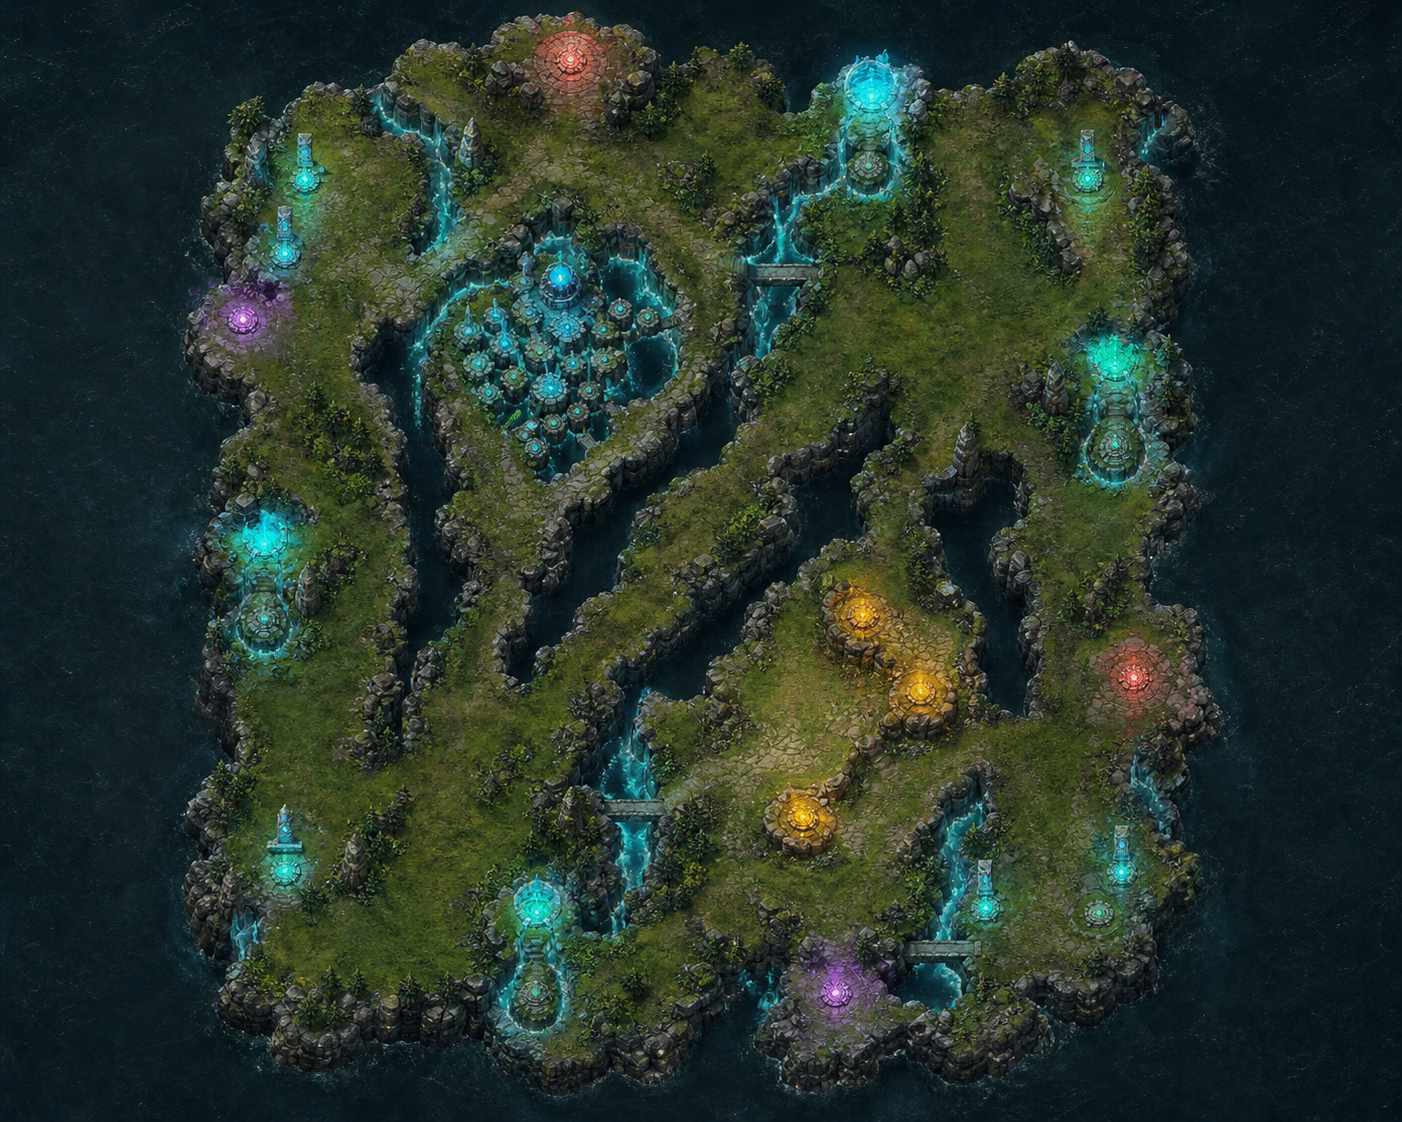
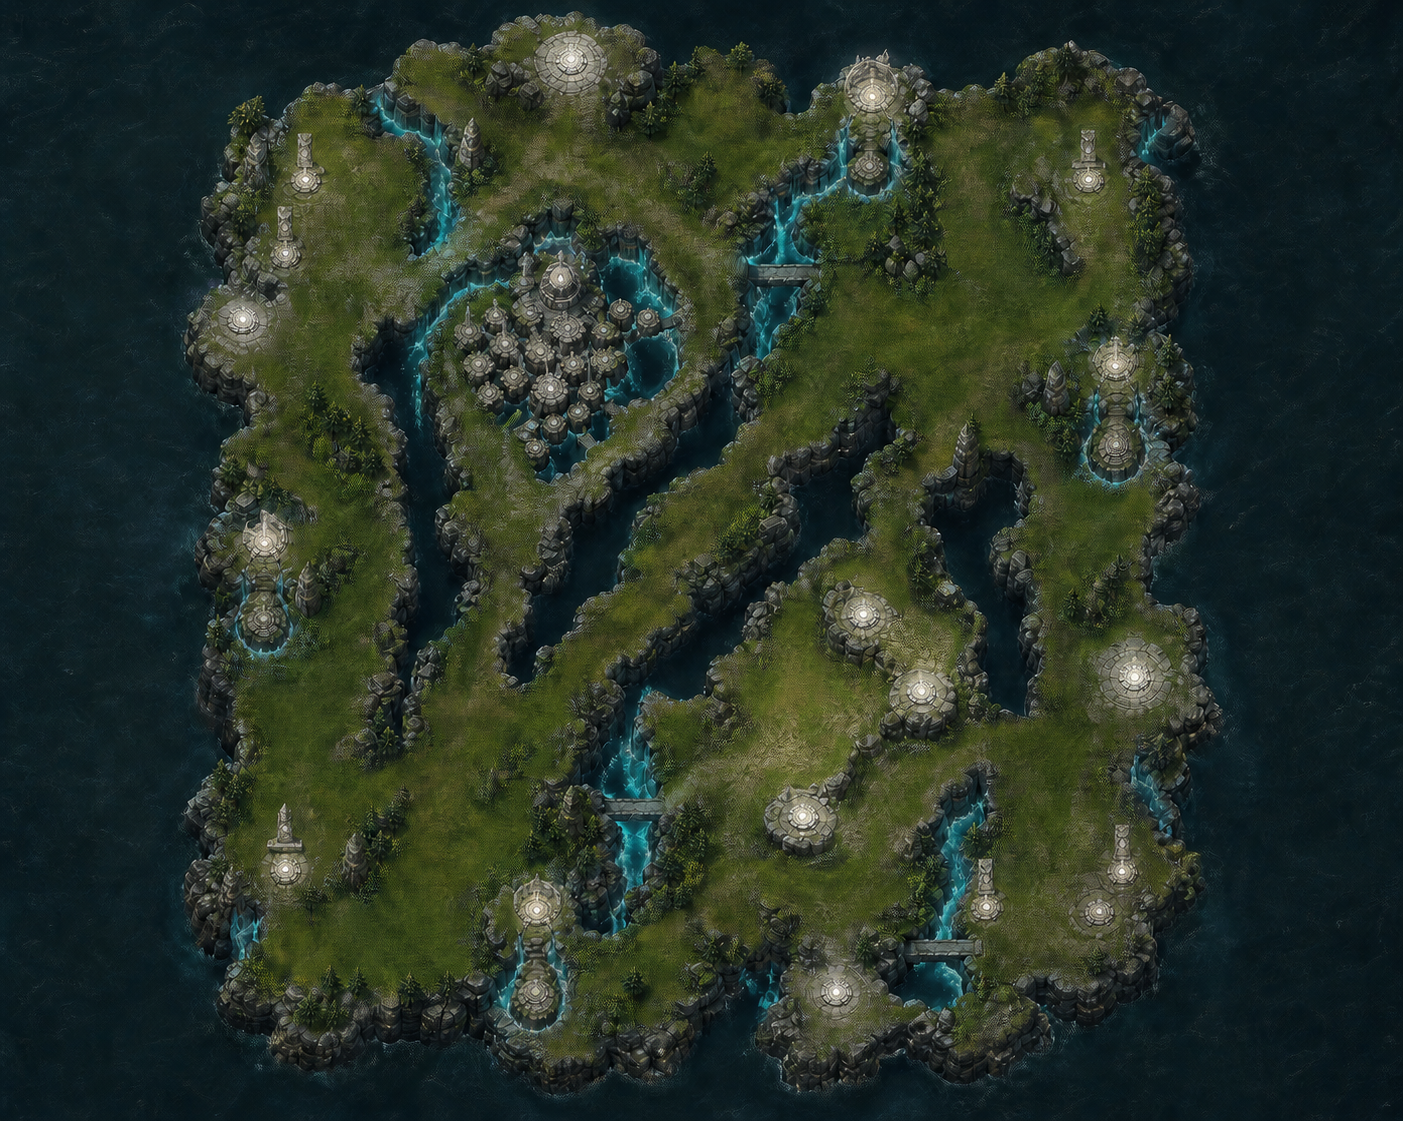
Add interactive neutral objective ownership

diff --git a/app/globals.css b/app/globals.css
@@ -13,5 +13,7 @@
 .visually-hidden{position:absolute!important;width:1px!important;height:1px!important;padding:0!important;margin:-1px!important;overflow:hidden!important;clip:rect(0,0,0,0)!important;white-space:nowrap!important;border:0!important}.brand-block input{width:330px;margin-top:5px;padding:0;border:0;outline:0;background:transparent;color:var(--muted);font:9px ui-monospace,monospace;letter-spacing:.08em}.header-actions{justify-self:end;display:flex;align-items:center;gap:5px}.header-actions>button{height:30px;padding:0 9px;border:1px solid #2d3d43;background:#10191d;color:#9bb0b7;cursor:pointer;font:9px ui-monospace,monospace;letter-spacing:.04em}.header-actions>button:hover:not(:disabled){border-color:var(--acid);color:var(--acid)}.header-actions>button:disabled{opacity:.28;cursor:not-allowed}.header-actions .status-chip{margin-left:5px;font-size:8px}.workspace-grid{grid-template-columns:250px minmax(680px,1fr) 272px}.roster-controls{display:flex;align-items:center;border-bottom:1px solid var(--line)}.roster-controls .role-summary{flex:1;border:0;padding:9px 8px}.roster-controls select{width:90px;height:26px;margin-right:7px;border:1px solid #29383e;background:#10191d;color:#899da4;font:9px ui-monospace,monospace;outline:0}.player-row.is-placed .edit-glyph{color:var(--acid);font-size:7px}.player-row:active{cursor:grabbing}
 .map-panel.tool-moveArrow,.map-panel.tool-attackArrow,.map-panel.tool-defense{cursor:crosshair}.map-panel.tool-rally,.map-panel.tool-step,.map-panel.tool-text{cursor:cell}.map-panel.tool-delete{cursor:not-allowed}.tactical-svg{position:absolute;inset:0;width:100%;height:100%;z-index:3;pointer-events:none}.tactical-svg .tactical-object{pointer-events:stroke}.arrow-moveArrow,.arrow-attackArrow{stroke-width:6;vector-effect:non-scaling-stroke;fill:none;stroke-linecap:round}.arrow-moveArrow{stroke:#55cfff;filter:drop-shadow(0 0 4px rgba(85,207,255,.7))}.arrow-attackArrow{stroke:#ff5353;stroke-dasharray:13 6;filter:drop-shadow(0 0 4px rgba(255,83,83,.6))}.defense-zone{fill:rgba(70,155,255,.16);stroke:#66b5ff;stroke-width:2;stroke-dasharray:8 5;vector-effect:non-scaling-stroke;pointer-events:all!important}.map-marker{position:absolute;z-index:5;transform:translate(-50%,-50%);border:0;background:transparent;cursor:pointer}.map-marker>span{display:grid;place-items:center;min-width:36px;height:36px;padding:0 8px;border:2px solid currentColor;border-radius:50%;background:rgba(7,14,17,.86);box-shadow:0 3px 12px rgba(0,0,0,.55);font:800 10px ui-monospace,monospace}.marker-rally{color:#ffd04a}.marker-step{color:#62f0be}.marker-text>span{height:auto;min-height:28px;max-width:180px;border-radius:2px;color:#f2e8c4;border-width:1px;background:rgba(9,15,17,.86);line-height:1.25}.tool-delete .tactical-object:hover{filter:drop-shadow(0 0 5px #ff3d3d)}
 .player-token{position:absolute;z-index:6;transform:translate(-18px,-50%);height:38px;display:flex;align-items:center;max-width:170px;padding:0;border:1px solid color-mix(in srgb,var(--role-color) 68%,#fff 10%);background:rgba(8,16,19,.92);box-shadow:0 3px 9px rgba(0,0,0,.55);cursor:grab;touch-action:none;text-align:left}.player-token:before{content:"";position:absolute;left:-7px;width:12px;height:12px;transform:rotate(45deg);border-left:1px solid var(--role-color);border-bottom:1px solid var(--role-color);background:#0c171b}.player-token.selected{z-index:8;outline:2px solid var(--acid);outline-offset:3px;box-shadow:0 0 18px rgba(215,255,67,.35)}.token-num{position:relative;z-index:1;width:35px;align-self:stretch;display:grid;place-items:center;background:color-mix(in srgb,var(--role-color) 20%,#101a1f);color:var(--role-color);font:800 9px ui-monospace,monospace}.token-copy{min-width:0;padding:0 8px;display:grid;gap:2px}.token-copy strong{overflow:hidden;text-overflow:ellipsis;white-space:nowrap;font-size:10px}.token-copy small{color:#8599a0;font:7px ui-monospace,monospace;white-space:nowrap}.player-token:hover{border-color:#fff}.map-panel .objective{z-index:1}.map-panel .faction,.map-note,.map-coordinates{z-index:2}
+.home-zone{position:absolute;z-index:2;border:2px solid currentColor;border-radius:50%;pointer-events:none;box-shadow:inset 0 0 32px color-mix(in srgb,currentColor 9%,transparent),0 0 18px color-mix(in srgb,currentColor 24%,transparent)}.home-zone:before{content:"";position:absolute;inset:5px;border:1px dashed currentColor;border-radius:inherit;opacity:.55}.home-zone span{position:absolute;left:50%;top:-10px;transform:translate(-50%,-100%);padding:5px 8px;background:rgba(7,14,17,.88);border:1px solid currentColor;white-space:nowrap;font:800 8px ui-monospace,monospace;letter-spacing:.08em}.home-lucia{left:28%;top:17%;width:17%;height:20%;color:#55cfff}.home-ian{left:55%;top:50%;width:14%;height:21%;color:#ffd34d}
+.capture-objective{position:absolute;z-index:5;transform:translate(-50%,-50%) rotate(45deg);width:30px;height:30px;padding:0;border:2px solid currentColor;background:rgba(8,15,18,.9);color:#f4f1df;box-shadow:0 0 14px color-mix(in srgb,currentColor 42%,transparent),inset 0 0 9px color-mix(in srgb,currentColor 16%,transparent);cursor:pointer}.capture-objective:hover{z-index:9;transform:translate(-50%,-50%) rotate(45deg) scale(1.12);background:#101a1e}.capture-objective b{display:block;transform:rotate(-45deg);font:900 8px ui-monospace,monospace}.capture-objective span{position:absolute;left:50%;top:36px;transform:translateX(-50%) rotate(-45deg);display:none;padding:4px 6px;border:1px solid currentColor;background:rgba(7,13,16,.94);white-space:nowrap;font:800 8px ui-monospace,monospace}.capture-objective:hover span{display:block}.capture-objective.owner-neutral{color:#f3f0df}.capture-objective.owner-lucia{color:#55cfff;background:rgba(16,50,67,.94)}.capture-objective.owner-ian{color:#ffd34d;background:rgba(62,51,15,.94)}.objective-legend{display:grid;grid-template-columns:repeat(3,1fr);gap:5px;margin-top:8px}.objective-legend>span{padding:6px 3px;border:1px solid currentColor;text-align:center;font:800 8px ui-monospace,monospace}.objective-legend .owner-neutral{color:#f3f0df}.objective-legend .owner-lucia{color:#55cfff}.objective-legend .owner-ian{color:#ffd34d}.objective-legend small{grid-column:1/-1;color:#71878e;font:8px/1.45 ui-monospace,monospace}
 .inspector-panel{padding:12px;scrollbar-color:#33434a transparent}.tool-grid{display:grid;grid-template-columns:repeat(4,1fr);gap:5px;margin-top:12px}.tool-grid button{min-height:52px;display:grid;place-items:center;align-content:center;gap:4px;border:1px solid #26363c;background:#10191d;color:#85989f;cursor:pointer;font-size:8px}.tool-grid button span{font:700 17px ui-monospace,monospace}.tool-grid button:hover{border-color:#62777e;color:#cbd7da}.tool-grid button.active{border-color:var(--acid);color:var(--acid);background:rgba(215,255,67,.07);box-shadow:inset 0 -2px var(--acid)}.section-rule{height:1px;margin:16px 0 13px;background:var(--line)}.sub-heading{display:flex;justify-content:space-between;color:#82969e;font:8px ui-monospace,monospace;letter-spacing:.14em}.sub-heading b{color:var(--acid)}.inspector-panel .field-label{margin:12px 0 6px}.role-options.compact{grid-template-columns:repeat(3,1fr);gap:5px;margin-top:7px}.role-options.compact .role-option{min-height:32px;padding:0 6px;gap:5px;font-size:9px}.role-options.compact .role-option span{font-size:11px}.inspector-panel .secondary-options{grid-template-columns:repeat(3,1fr);margin-top:6px}.inspector-panel .secondary-options label{min-height:29px;font-size:8px}.layer-list{display:grid;grid-template-columns:1fr 1fr;gap:5px;margin-top:8px}.layer-list label{display:flex;align-items:center;gap:6px;min-height:27px;padding:0 7px;border:1px solid #24343a;color:#82969e;font-size:8px;cursor:pointer}.layer-list input{accent-color:var(--acid)}
 .timeline-shell{grid-template-columns:170px 1fr 205px}.scene-strip{min-width:0;display:flex;gap:6px;overflow-x:auto;padding:6px 0;scrollbar-width:thin}.scene-strip>button{min-width:135px;height:48px;display:flex;align-items:center;padding:0;border:1px solid #26363c;background:#10181c;color:#81949b;cursor:pointer;text-align:left}.scene-strip>button>i{align-self:stretch;width:30px;display:grid;place-items:center;border-right:1px solid #26363c;color:#53686f;font:8px ui-monospace,monospace}.scene-strip>button>span{min-width:0;padding:0 8px;display:grid;gap:3px}.scene-strip b{color:#d8e2e4;font:10px ui-monospace,monospace}.scene-strip small{overflow:hidden;text-overflow:ellipsis;white-space:nowrap;font-size:8px}.scene-strip>button.active{border-color:var(--acid);background:rgba(215,255,67,.06)}.scene-strip>button.active i,.scene-strip>button.active b{color:var(--acid)}.scene-strip>button.clone-scene{border-style:dashed}.scene-strip>button:hover{border-color:#8ea2a9}.footer-actions{display:flex;justify-content:flex-end;align-items:center;gap:8px}.footer-actions button{height:30px;border:1px solid #34464d;background:transparent;color:#879aa1;cursor:pointer;font:8px ui-monospace,monospace}.footer-actions button:hover{border-color:#ff6060;color:#ff7a7a}.footer-actions span{padding:8px 9px;border:1px solid rgba(215,255,67,.35);color:var(--acid);font:8px ui-monospace,monospace;letter-spacing:.06em}

diff --git a/app/war-table.tsx b/app/war-table.tsx
@@ -5,10 +5,11 @@ import { useEffect, useMemo, useRef, useState } from "react";
 type PrimaryRole = "infantry" | "cavalry" | "ranged";
 type SecondaryRole = "garrison" | "rally" | "blocker";
 type Tool = "select" | "moveArrow" | "attackArrow" | "defense" | "rally" | "step" | "text" | "delete";
+type ObjectiveOwner = "neutral" | "lucia" | "ian";
 type Point = { x: number; y: number };
 type Player = { id: number; nickname: string; primaryRole: PrimaryRole; secondaryRoles: SecondaryRole[] };
 type TacticalObject = { id: string; type: Exclude<Tool, "select" | "delete">; x: number; y: number; x2?: number; y2?: number; text?: string };
-type Scene = { id: string; name: string; time: string; positions: Record<string, Point>; objects: TacticalObject[] };
+type Scene = { id: string; name: string; time: string; positions: Record<string, Point>; objects: TacticalObject[]; objectiveOwners?: Record<string, ObjectiveOwner> };
 type Operation = { version: 1; name: string; players: Player[]; scenes: Scene[]; activeSceneId: string; updatedAt: string };
 
 const STORAGE_KEY = "heinapel-war-table-v0.1";
@@ -36,6 +37,17 @@ const PLAYER_SOURCE: Array<[string, PrimaryRole]> = [
 ];
 const INITIAL_PLAYERS: Player[] = PLAYER_SOURCE.map(([nickname, primaryRole], index) => ({ id: index + 1, nickname, primaryRole, secondaryRoles: [] }));
 const SCENE_TIMES = ["60:00", "55:00", "52:00", "46:00", "42:00"];
+const OBJECTIVE_META = [
+  { id: "northwest", label: "북서 거점", x: 21, y: 19 },
+  { id: "north", label: "북부 거점", x: 62, y: 9 },
+  { id: "north-center", label: "북중앙 거점", x: 62, y: 17 },
+  { id: "east", label: "동부 거점", x: 80, y: 32 },
+  { id: "west", label: "서부 거점", x: 19, y: 47 },
+  { id: "west-south", label: "서남 외곽 거점", x: 20, y: 75 },
+  { id: "southwest", label: "남서 거점", x: 38, y: 79 },
+  { id: "southeast", label: "남동 거점", x: 80, y: 76 },
+  { id: "south", label: "남부 거점", x: 70, y: 79 },
+] as const;
 
 function freshOperation(): Operation {
   const sceneId = "scene-1";
@@ -152,7 +164,7 @@ export default function WarTable() {
     updateScene(scene.id, (target) => { target.positions[String(playerId)] = point; }); setSelectedIds([playerId]); setEditingId(playerId); setTool("select");
   };
   const handleMapPointerDown = (event: React.PointerEvent<HTMLElement>) => {
-    if ((event.target as Element).closest(".player-token,.tactical-object")) return;
+    if ((event.target as Element).closest(".player-token,.tactical-object,.capture-objective")) return;
     const point = pointFromClient(event.clientX, event.clientY);
     if (tool === "select") {
       const unplaced = selectedIds.length === 1 && !scene.positions[String(selectedIds[0])];
@@ -176,6 +188,11 @@ export default function WarTable() {
     setDrawStart(null);
   };
   const deleteObject = (objectId: string) => { if (tool !== "delete") return; updateScene(scene.id, (target) => { target.objects = target.objects.filter((object) => object.id !== objectId); }); };
+  const cycleObjective = (objectiveId: string) => updateScene(scene.id, (target) => {
+    const current = target.objectiveOwners?.[objectiveId] ?? "neutral";
+    const next: ObjectiveOwner = current === "neutral" ? "lucia" : current === "lucia" ? "ian" : "neutral";
+    target.objectiveOwners = { ...target.objectiveOwners, [objectiveId]: next };
+  });
 
   const cloneScene = () => commit((draft) => {
     const source = draft.scenes.find((item) => item.id === draft.activeSceneId) ?? draft.scenes[0];
@@ -200,6 +217,10 @@ export default function WarTable() {
   const placedCount = Object.keys(scene.positions).length;
   const visibleObjects = scene.objects.filter((object) => object.type === "moveArrow" || object.type === "attackArrow" ? layers.arrows : object.type === "defense" ? layers.zones : object.type === "text" ? layers.text : layers.markers);
   const stepObjects = visibleObjects.filter((object) => object.type === "step");
+  const objectiveCounts = OBJECTIVE_META.reduce((counts, objective) => {
+    counts[scene.objectiveOwners?.[objective.id] ?? "neutral"] += 1;
+    return counts;
+  }, { neutral: 0, lucia: 0, ian: 0 } as Record<ObjectiveOwner, number>);
 
   return (
     <main className="war-shell">
@@ -231,6 +252,8 @@ export default function WarTable() {
 
         <section ref={mapRef} className={`map-panel tool-${tool}`} aria-label="헤이나펄 전장 작전판" onDragOver={(event) => event.preventDefault()} onDrop={handleMapDrop} onPointerDown={handleMapPointerDown} onPointerUp={handleMapPointerUp}>
           <div className="map-image-layer" /><div className="map-grid-lines" />
+          <div className="home-zone home-lucia"><span>루시아팀 본진 · 30 CASTLES</span></div><div className="home-zone home-ian"><span>이안팀 본진 · 30 CASTLES</span></div>
+          {OBJECTIVE_META.map((objective, index) => { const owner = scene.objectiveOwners?.[objective.id] ?? "neutral"; return <button type="button" key={objective.id} className={`capture-objective owner-${owner}`} style={{ left: `${objective.x}%`, top: `${objective.y}%` }} onClick={() => cycleObjective(objective.id)} aria-label={`${objective.label}: ${owner === "neutral" ? "중립" : owner === "lucia" ? "루시아팀" : "이안팀"}`} title={`${objective.label} · 클릭하여 점령 상태 변경`}><b>{String(index + 1).padStart(2, "0")}</b><span>{objective.label}</span></button>; })}
           <svg className="tactical-svg" viewBox="0 0 1000 1000" preserveAspectRatio="none" aria-label="전술 오브젝트 레이어">
             <defs><marker id="move-head" markerWidth="10" markerHeight="10" refX="8" refY="3" orient="auto"><path d="M0,0 L0,6 L9,3 z" fill="#55cfff" /></marker><marker id="attack-head" markerWidth="10" markerHeight="10" refX="8" refY="3" orient="auto"><path d="M0,0 L0,6 L9,3 z" fill="#ff5353" /></marker></defs>
             {visibleObjects.filter((object) => ["moveArrow", "attackArrow", "defense"].includes(object.type)).map((object) => object.type === "defense" ? <rect key={object.id} className="tactical-object defense-zone" onClick={() => deleteObject(object.id)} x={Math.min(object.x, object.x2 ?? object.x) * 1000} y={Math.min(object.y, object.y2 ?? object.y) * 1000} width={Math.abs((object.x2 ?? object.x) - object.x) * 1000} height={Math.abs((object.y2 ?? object.y) - object.y) * 1000} /> : <line key={object.id} className={`tactical-object arrow-${object.type}`} onClick={() => deleteObject(object.id)} x1={object.x * 1000} y1={object.y * 1000} x2={(object.x2 ?? object.x) * 1000} y2={(object.y2 ?? object.y) * 1000} markerEnd={`url(#${object.type === "moveArrow" ? "move-head" : "attack-head"})`} />)}
@@ -249,6 +272,7 @@ export default function WarTable() {
           <div className="role-options compact">{(Object.keys(ROLE_LABEL) as PrimaryRole[]).map((role) => <button type="button" key={role} className={`role-option role-${role} ${editing.primaryRole === role ? "selected" : ""}`} onClick={() => patchPlayer(editing.id, { primaryRole: role })}><span>{role === "infantry" ? "▣" : role === "cavalry" ? "◆" : "◎"}</span>{ROLE_LABEL[role]}</button>)}</div>
           <div className="secondary-options">{(Object.keys(SECONDARY_LABEL) as SecondaryRole[]).map((role) => <label key={role} className={editing.secondaryRoles.includes(role) ? "checked" : ""}><input type="checkbox" checked={editing.secondaryRoles.includes(role)} onChange={() => toggleSecondary(role)} /><span>{SECONDARY_LABEL[role]}</span></label>)}</div>
           <div className="section-rule" /><div className="sub-heading"><span>LAYER FILTER</span><b>{visibleObjects.length}</b></div>
+          <div className="objective-legend"><span className="owner-neutral">중립 {objectiveCounts.neutral}</span><span className="owner-lucia">루시아 {objectiveCounts.lucia}</span><span className="owner-ian">이안 {objectiveCounts.ian}</span><small>지도 거점을 클릭해 점령 상태를 변경하세요.</small></div>
           <div className="layer-list">{(Object.keys(layers) as Array<keyof typeof layers>).map((layer) => <label key={layer}><input type="checkbox" checked={layers[layer]} onChange={() => setLayers((current) => ({ ...current, [layer]: !current[layer] }))} /><span>{({ players: "플레이어", arrows: "화살표", zones: "방어구역", markers: "집결·스테프", text: "텍스트" })[layer]}</span></label>)}</div>
         </aside>
       </section>
